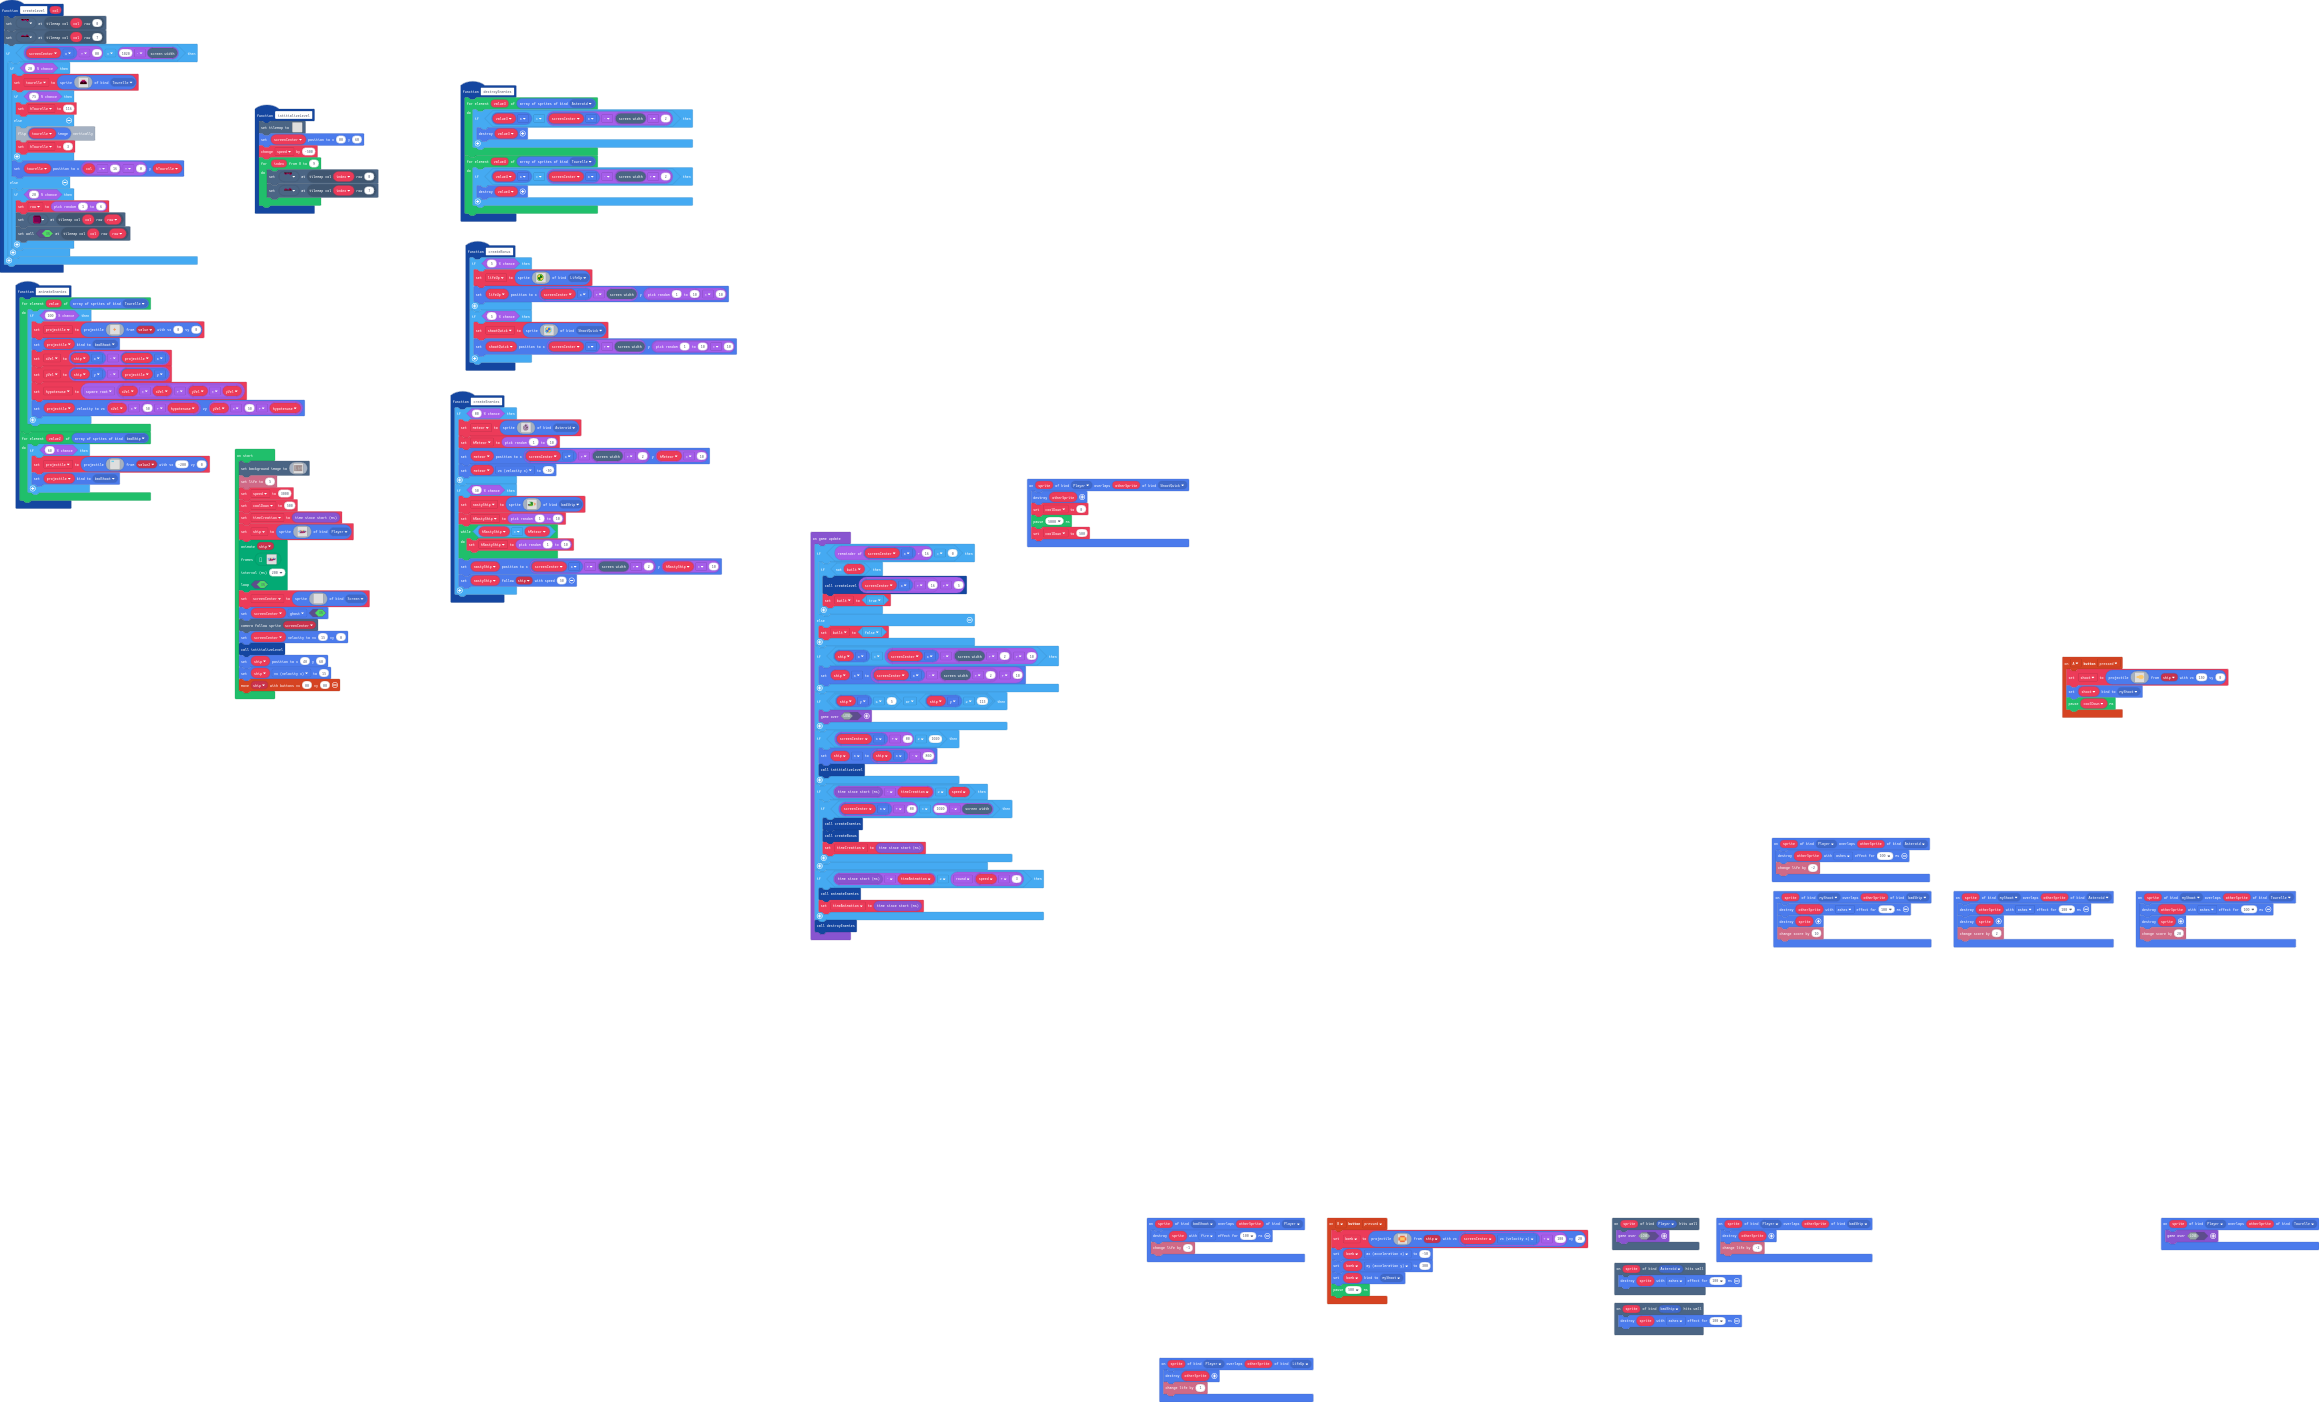
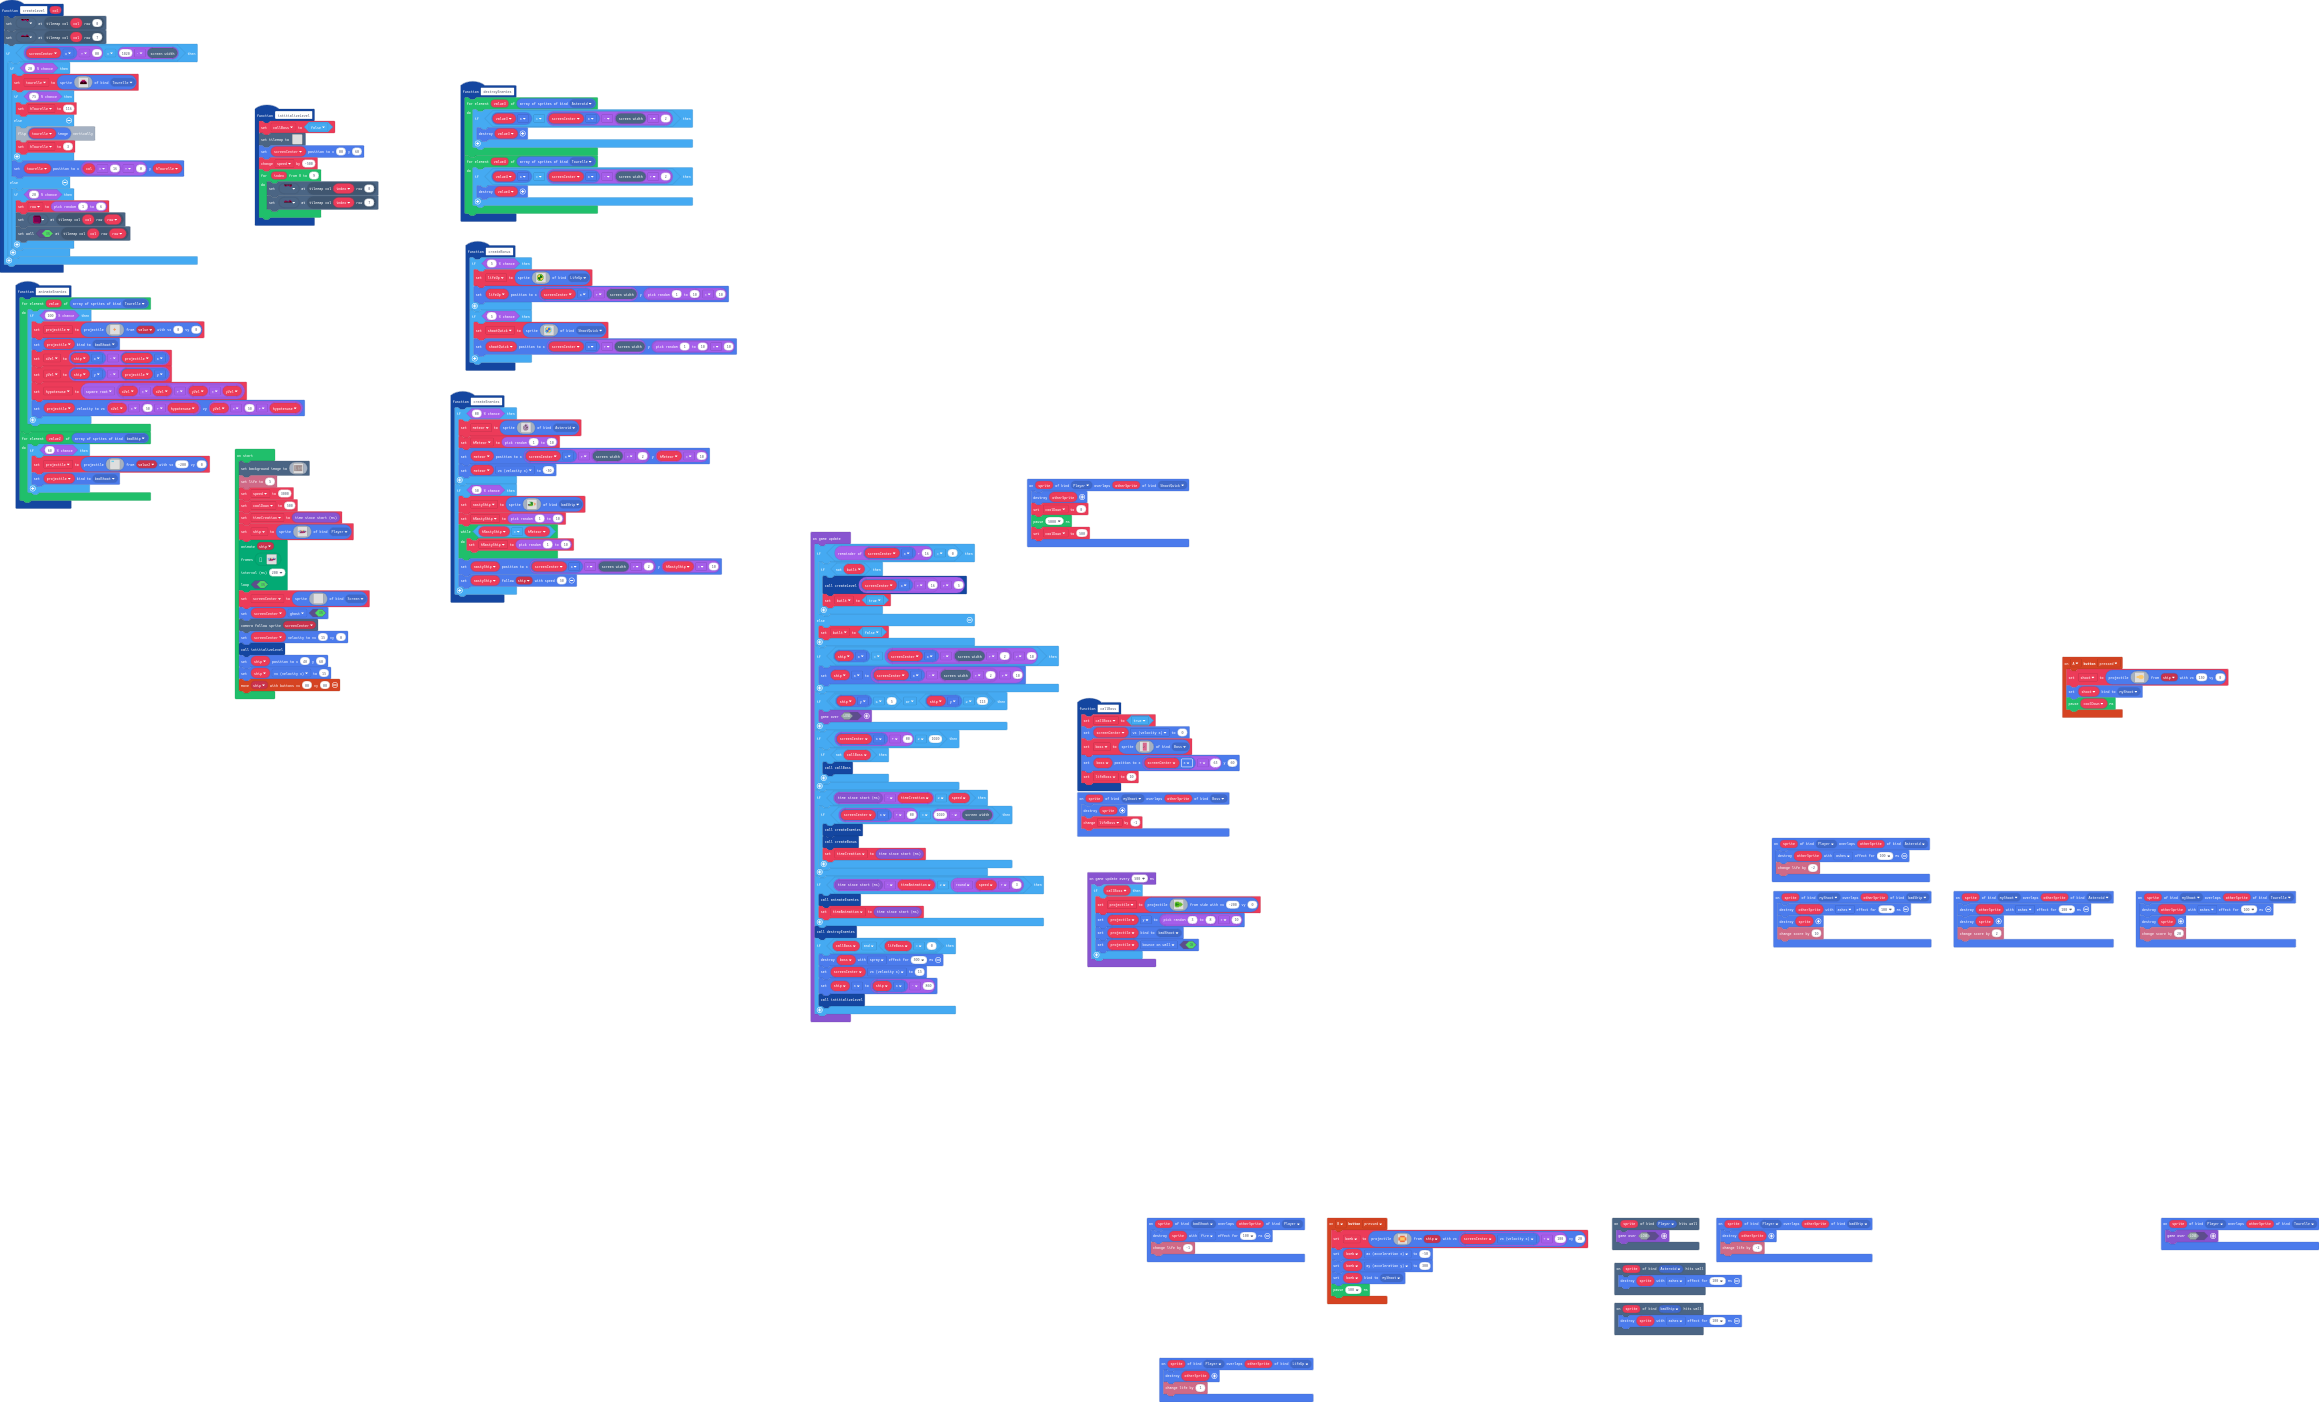
Update main.blocks, main.ts

Changed region(s): [[0.3415, 0.4907, 0.5589, 0.7361], [0.0931, 0.0613, 0.1863, 0.184]]

diff --git a/main.ts b/main.ts
@@ -8,6 +8,7 @@ namespace SpriteKind {
     export const LifeUp = SpriteKind.create()
     export const ShootQuick = SpriteKind.create()
     export const Screen = SpriteKind.create()
+    export const Boss = SpriteKind.create()
 }
 namespace myTiles {
     //% blockIdentity=images._tile
@@ -119,6 +120,74 @@ sprites.onOverlap(SpriteKind.Player, SpriteKind.ShootQuick, function (sprite, ot
     pause(5000)
     coolDown = 500
 })
+function callBoss () {
+    callBoss2 = true
+    screenCenter.vx = 0
+    boss = sprites.create(img`
+3 3 3 3 3 3 3 3 3 3 3 3 3 3 3 3 3 3 3 3 3 3 3 3 3 3 3 3 3 3 
+3 3 3 3 3 3 3 3 3 3 3 3 3 3 3 3 3 3 3 3 3 3 3 3 3 3 3 3 3 3 
+3 3 3 3 3 3 3 3 3 3 3 3 3 3 3 3 3 3 3 3 3 3 3 3 3 3 3 3 3 3 
+3 3 3 3 3 3 3 3 3 3 3 3 3 3 3 3 3 3 3 3 3 3 3 3 3 3 3 3 3 3 
+3 3 3 3 3 3 3 3 3 3 3 3 3 3 3 3 3 3 3 3 3 3 3 3 3 3 3 3 3 3 
+3 3 3 3 3 3 3 3 3 3 3 3 3 3 3 3 3 3 3 3 3 3 3 3 3 3 3 3 3 3 
+3 3 3 3 3 3 3 3 3 3 3 3 3 3 3 3 3 3 3 3 3 3 3 3 3 3 3 3 3 3 
+3 3 3 3 3 3 1 1 1 1 1 3 3 3 3 3 3 3 3 3 3 3 3 3 3 3 3 3 3 3 
+3 3 3 3 3 3 1 1 1 1 1 3 3 3 3 3 3 3 3 3 3 3 3 3 3 3 3 3 3 3 
+3 3 3 3 3 3 1 1 1 1 1 3 3 3 3 3 3 3 3 3 3 3 3 3 3 3 3 3 3 3 
+3 3 3 3 3 3 1 1 1 1 1 3 3 3 3 3 3 3 3 3 3 3 3 3 3 3 3 3 3 3 
+3 3 3 3 3 3 1 1 1 1 1 3 3 3 3 3 3 3 3 3 3 3 3 3 3 3 3 3 3 3 
+3 3 3 3 3 3 3 3 3 3 3 3 3 3 3 3 3 3 3 3 3 3 3 3 3 3 3 3 3 3 
+3 3 3 3 3 3 3 3 3 3 3 3 3 3 3 3 3 3 3 3 3 3 3 3 3 3 3 3 3 3 
+3 3 3 3 3 3 3 3 3 3 3 3 3 3 3 3 3 3 3 3 3 3 3 3 3 3 3 3 3 3 
+3 3 3 3 3 3 3 3 3 3 3 3 3 3 3 3 3 3 3 3 3 3 3 3 3 3 3 3 3 3 
+3 3 3 3 3 3 3 3 3 3 3 3 3 3 3 3 3 3 3 3 3 3 3 3 3 3 3 3 3 3 
+3 3 3 3 3 3 3 3 3 3 3 3 3 3 3 3 3 3 3 3 3 3 3 3 3 3 3 3 3 3 
+3 3 3 3 3 3 3 3 3 3 3 3 3 3 3 3 3 3 3 3 3 3 3 3 3 3 3 3 3 3 
+3 3 3 3 3 3 3 3 3 3 3 3 3 3 3 3 3 3 3 3 3 3 3 3 3 3 3 3 3 3 
+3 3 3 3 3 3 3 3 3 3 3 3 3 3 3 3 3 3 3 3 3 3 3 3 3 3 3 3 3 3 
+3 3 3 3 3 3 3 3 3 3 3 3 3 3 3 3 3 3 3 3 3 3 3 3 3 3 3 3 3 3 
+3 3 3 3 3 3 3 3 3 3 3 3 3 3 3 3 3 3 3 3 3 3 3 3 3 3 3 3 3 3 
+3 3 3 3 3 3 3 3 3 3 3 3 3 3 3 3 3 3 3 3 3 3 3 3 3 3 3 3 3 3 
+3 3 3 3 3 3 3 3 3 3 3 3 3 3 3 3 3 3 3 3 3 3 3 3 3 3 3 3 3 3 
+3 3 3 3 3 3 3 3 3 3 3 3 3 3 3 3 3 3 3 3 3 3 3 3 3 3 3 3 3 3 
+3 3 3 3 3 3 3 3 3 3 3 1 1 1 3 3 3 3 3 3 3 3 3 3 3 3 3 3 3 3 
+3 3 3 3 3 3 3 3 3 3 3 1 1 1 3 3 3 3 3 3 3 3 3 3 3 3 3 3 3 3 
+3 3 3 3 3 3 3 3 3 3 3 1 1 1 3 3 3 3 3 3 3 3 3 3 3 3 3 3 3 3 
+3 3 3 3 3 3 3 3 3 3 3 1 1 1 3 3 3 3 3 3 3 3 3 3 3 3 3 3 3 3 
+3 3 3 3 3 3 3 3 3 3 1 1 1 1 3 3 3 3 3 3 3 3 3 3 3 3 3 3 3 3 
+3 3 3 3 3 3 3 3 3 1 1 1 1 1 3 3 3 3 3 3 3 3 3 3 3 3 3 3 3 3 
+3 3 3 3 3 3 3 3 3 1 1 1 1 1 3 3 3 3 3 3 3 3 3 3 3 3 3 3 3 3 
+3 3 3 3 3 3 1 1 1 1 1 1 1 3 3 3 3 3 3 3 3 3 3 3 3 3 3 3 3 3 
+1 1 1 1 1 1 1 1 1 1 1 1 3 3 3 3 3 3 3 3 3 3 3 3 3 3 3 3 3 3 
+1 1 1 1 1 1 1 1 1 1 1 3 3 3 3 3 3 3 3 3 3 3 3 3 3 3 3 3 3 3 
+1 1 1 1 1 1 1 1 3 3 3 3 3 3 3 3 3 3 3 3 3 3 3 3 3 3 3 3 3 3 
+3 3 3 3 3 3 3 3 3 3 3 3 3 3 3 3 3 3 3 3 3 3 3 3 3 3 3 3 3 3 
+3 3 3 3 3 3 3 3 3 3 3 3 3 3 3 3 3 3 3 3 3 3 3 3 3 3 3 3 3 3 
+3 3 3 3 3 3 3 3 3 3 3 3 3 3 3 3 3 3 3 3 3 3 3 3 3 3 3 3 3 3 
+3 3 3 3 3 3 3 3 3 3 3 3 3 3 3 3 3 3 3 3 3 3 3 3 3 3 3 3 3 3 
+3 3 3 3 3 3 3 3 3 3 3 3 3 3 3 3 3 3 3 3 3 3 3 3 3 3 3 3 3 3 
+3 3 3 3 3 3 3 3 3 3 3 3 3 3 3 3 3 3 3 3 3 3 3 3 3 3 3 3 3 3 
+3 3 3 3 3 3 3 3 3 3 3 3 3 3 3 3 3 3 3 3 3 3 3 3 3 3 3 3 3 3 
+3 3 3 3 3 3 3 3 3 3 3 3 3 3 3 3 3 3 3 3 3 3 3 3 3 3 3 3 3 3 
+3 3 3 3 3 3 3 3 3 3 3 3 3 3 3 3 3 3 3 3 3 3 3 3 3 3 3 3 3 3 
+3 3 3 3 3 3 3 3 3 3 3 3 3 3 3 3 3 3 3 3 3 3 3 3 3 3 3 3 3 3 
+3 3 3 3 3 3 3 3 3 3 3 3 3 3 3 3 3 3 3 3 3 3 3 3 3 3 3 3 3 3 
+3 3 3 3 3 3 3 3 3 3 3 3 3 3 3 3 3 3 3 3 3 3 3 3 3 3 3 3 3 3 
+3 3 3 3 3 3 3 3 3 3 3 3 3 3 3 3 3 3 3 3 3 3 3 3 3 3 3 3 3 3 
+3 3 3 3 3 3 3 3 3 3 3 3 3 3 3 3 3 3 3 3 3 3 3 3 3 3 3 3 3 3 
+3 3 3 3 3 3 3 3 3 3 3 3 3 3 3 3 3 3 3 3 3 3 3 3 3 3 3 3 3 3 
+3 3 3 3 3 3 3 3 3 3 3 3 3 3 3 3 3 3 3 3 3 3 3 3 3 3 3 3 3 3 
+3 3 3 3 3 3 3 3 3 3 3 3 3 3 3 3 3 3 3 3 3 3 3 3 3 3 3 3 3 3 
+3 3 3 3 3 3 3 3 3 3 3 3 3 3 3 3 3 3 3 3 3 3 3 3 3 3 3 3 3 3 
+3 3 3 3 3 3 3 3 3 3 3 3 3 3 3 3 3 3 3 3 3 3 3 3 3 3 3 3 3 3 
+3 3 3 3 3 3 3 3 3 3 3 3 3 3 3 3 3 3 3 3 3 3 3 3 3 3 3 3 3 3 
+3 3 3 3 3 3 3 3 3 3 3 3 3 3 3 3 3 3 3 3 3 3 3 3 3 3 3 3 3 3 
+3 3 3 3 3 3 3 3 3 3 3 3 3 3 3 3 3 3 3 3 3 3 3 3 3 3 3 3 3 3 
+3 3 3 3 3 3 3 3 3 3 3 3 3 3 3 3 3 3 3 3 3 3 3 3 3 3 3 3 3 3 
+`, SpriteKind.Boss)
+    boss.setPosition(screenCenter.x + 65, 60)
+    lifeBoss = 10
+}
 function createLevel (col: number) {
     tiles.setTileAt(tiles.getTileLocation(col, 0), myTiles.tile4)
     tiles.setTileAt(tiles.getTileLocation(col, 7), myTiles.tile5)
@@ -275,6 +344,7 @@ sprites.onOverlap(SpriteKind.myShoot, SpriteKind.Asteroid, function (sprite, oth
     info.changeScoreBy(2)
 })
 function intitializeLevel () {
+    callBoss2 = false
     tiles.setTilemap(tiles.createTilemap(
             hex`400008000000000000000000000000000000000000000000000000000000000000000000000000000000000000000000000000000000000000000000000000000000000000000000000000000000000000000000000000000000000000000000000000000000000000000000000000000000000000000000000000000000000000000000000000000000000000000000000000000000000000000000000000000000000000000000000000000000000000000000000000000000000000000000000000000000000000000000000000000000000000000000000000000000000000000000000000000000000000000000000000000000000000000000000000000000000000000000000000000000000000000000000000000000000000000000000000000000000000000000000000000000000000000000000000000000000000000000000000000000000000000000000000000000000000000000000000000000000000000000000000000000000000000000000000000000000000000000000000000000000000000000000000000000000000000000000000000000000000000000000000000000000000000000000000000000000000000000000000000000000000000000000000000000000000000000000000000000000000000000000000000000000000000000000000000000000000000000000000000000000000000000`,
             img`
@@ -360,6 +430,10 @@ sprites.onOverlap(SpriteKind.Player, SpriteKind.Asteroid, function (sprite, othe
     otherSprite.destroy(effects.ashes, 100)
     info.changeLifeBy(-2)
 })
+sprites.onOverlap(SpriteKind.myShoot, SpriteKind.Boss, function (sprite, otherSprite) {
+    sprite.destroy()
+    lifeBoss += -1
+})
 sprites.onOverlap(SpriteKind.Player, SpriteKind.badShip, function (sprite, otherSprite) {
     otherSprite.destroy()
     info.changeLifeBy(-2)
@@ -405,6 +479,9 @@ let projectile: Sprite = null
 let row = 0
 let hTourelle = 0
 let tourelle: Sprite = null
+let lifeBoss = 0
+let boss: Sprite = null
+let callBoss2 = false
 let screenCenter: Sprite = null
 let ship: Sprite = null
 let coolDown = 0
@@ -597,8 +674,9 @@ game.onUpdate(function () {
         game.over(false)
     }
     if (screenCenter.x + 80 >= 1020) {
-        ship.x = ship.x - 860
-        intitializeLevel()
+        if (!(callBoss2)) {
+            callBoss()
+        }
     }
     if (game.runtime() - timeCreation >= speed) {
         if (screenCenter.x + 80 < 1020 - scene.screenWidth()) {
@@ -612,4 +690,26 @@ game.onUpdate(function () {
         timeAnimation = game.runtime()
     }
     destroyEnemies()
+    if (callBoss2 && lifeBoss == 0) {
+        boss.destroy(effects.spray, 500)
+        screenCenter.vx = 15
+        ship.x = ship.x - 860
+        intitializeLevel()
+    }
+})
+game.onUpdateInterval(500, function () {
+    if (callBoss2) {
+        projectile = sprites.createProjectileFromSide(img`
+. 7 7 7 7 . . . . . 
+7 7 7 7 7 7 7 7 . . 
+7 6 6 7 7 7 7 7 7 . 
+7 6 6 6 6 7 7 7 7 7 
+7 6 6 7 7 7 7 7 7 . 
+7 7 7 7 7 7 7 7 . . 
+. 7 7 7 7 . . . . . 
+`, -200, 0)
+        projectile.y = Math.randomRange(3, 8) * 10
+        projectile.setKind(SpriteKind.badShoot)
+        projectile.setFlag(SpriteFlag.BounceOnWall, true)
+    }
 })
